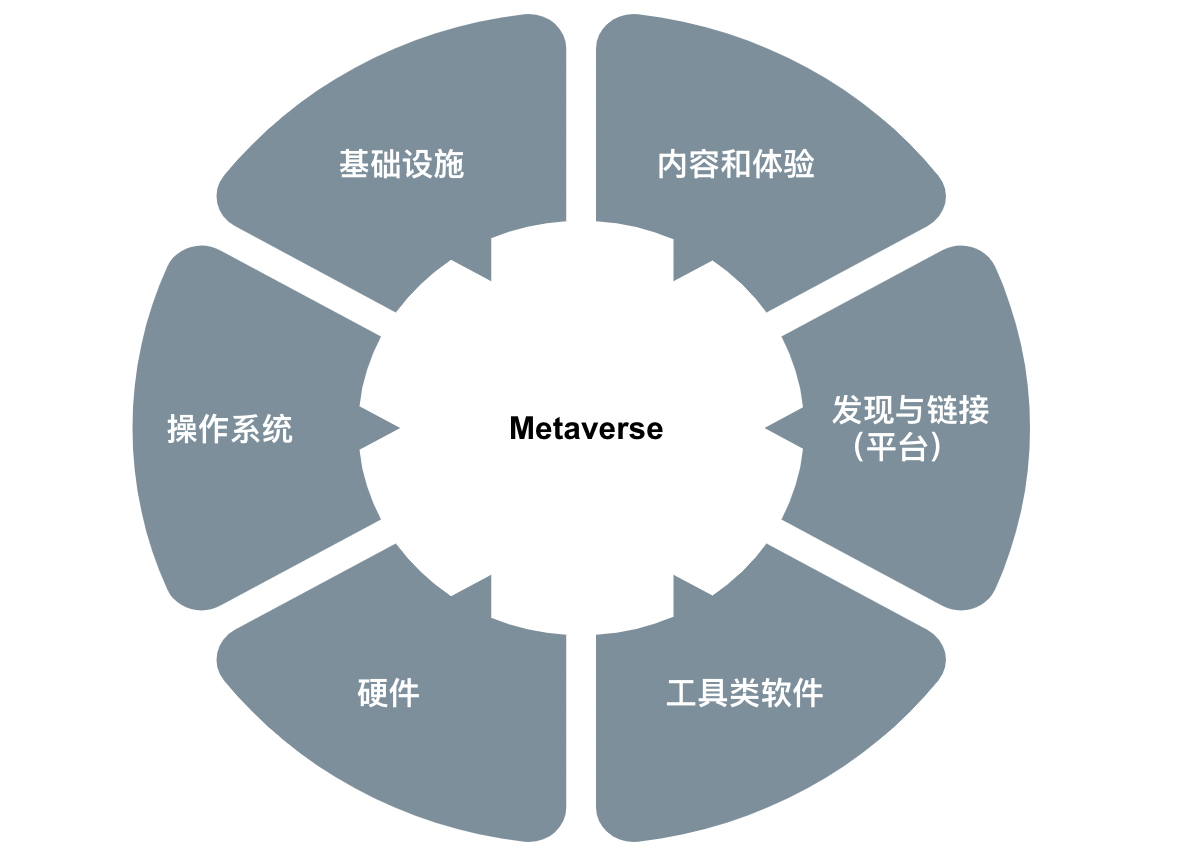
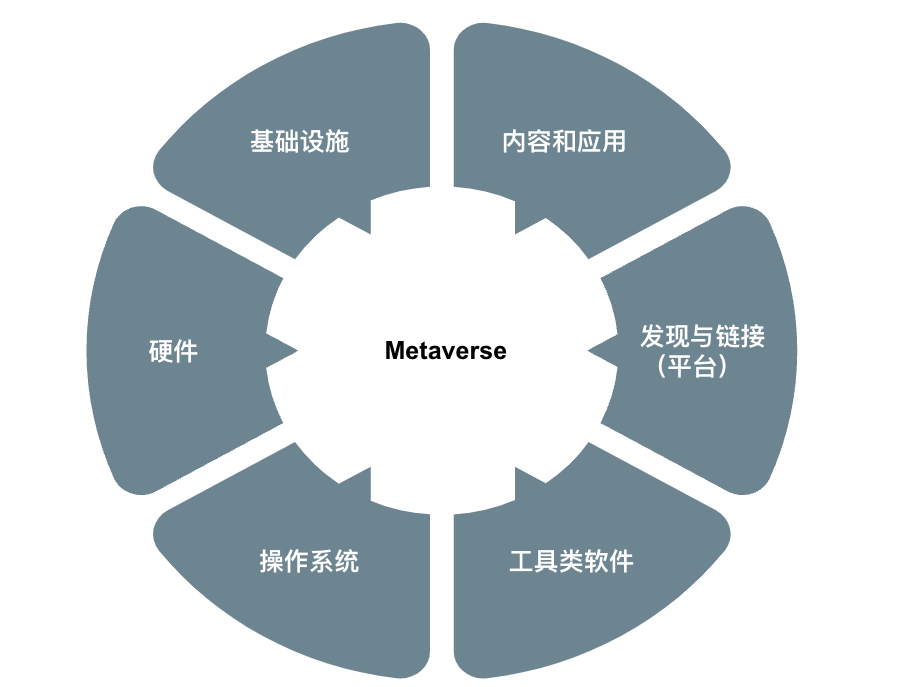
Site updated: 2021-10-09 16:52:52

diff --git a/2021/10/06/YJ09 元宇宙价值链 文章 a9c335570919418eaa0e95a0e58035fb/index.html b/2021/10/06/YJ09 元宇宙价值链 文章 a9c335570919418eaa0e95a0e58035fb/index.html
@@ -217,7 +217,7 @@
                 
                 <div class="post-date info-break-policy">
                     <i class="far fa-calendar-check fa-fw"></i>更新日期:&nbsp;&nbsp;
-                    2021-10-06
+                    2021-10-09
                 </div>
                 
 
@@ -242,8 +242,8 @@
         <div class="card-content article-card-content">
             <div id="articleContent">
                 <p>如果我们回顾互联网和移动互联网的发展，我们会发现他们从根本上改变了我们的生活、工作和娱乐的每个方式。并且这种改变并不是简单地建立在单一技术的突破上，而是建立在一系列的技术和模式创新之上的。创新之多，改变之广，所以无法用“互联网是信息的高速公路”这句话去概括它们。同样，我们并不能在元宇宙还处于萌芽状态时，就给它下一个“看似清晰”的定义。就个人而言，通过理解元宇宙价值链（在元宇宙构建中，创造价值的一系列公司），有助于梳理元宇宙相关的业务，理解不同公司在元宇宙中的位置。<br><img src="/images/YJ-2021-10-06-01.png" alt="元宇宙价值链" style="width:400px;"/></p>
-<p><strong>内容和体验：</strong>在互联网中，数字化内容占据主要位置。在元宇宙中，数字化行为的比例会大幅度提高，从而使得用户可以尝试各种实时的体验。这个观点，我们在《元宇宙特性》文章中有详细阐述。这一层中的公司主要负责制作丰富的数字化内容和体验。目前，这一层公司中的业务更多的停留在游戏层面，这是因为当前的硬件还处于比较早期阶段，如VR设备还并没有大规模普及。但是，未来这些内容和体验不仅仅停留在游戏层面。当硬件设备逐渐成熟和普及后，大量的公司会将现在的各种线下行为数字化，提供丰富的体验，这将包括但不局限于：旅游、教育、体育竞技、演唱会等等。这会使得之前线下稀缺的资源（xxx），变得丰富。这一点十分重要的原因在于，它不仅让我们都容易地享受更丰富的体验，更在于它给我们每个人都创造了更多的机会来选择不同的生活。（目前已经出现了一些线上化行为：Facebook推出Workrooms，为VR办公提供3D会议室场景；Travis Scott在Fortnite上举办虚拟演唱会；UC Berkeley在Minecaft中建立的虚拟校园，举办线上毕业）<br><img src="/images/YJ-2021-10-06-03.png" alt="" style="width:900px;"/></p>
-<p><strong>发现与链接（平台）</strong>：在元宇宙中，内容和体验的数量是前所未有的，并且会以指数级的方式增长。这就意味着，对于每个人而言，都存在一个问题：如何发现那些有价值的，感兴趣的内容和体验。有能力去解决这个问题的公司，往往会成为内容和体验的包装/分发平台。在获取巨大的流量之后，通过拍卖流量的方式而获取巨大的利益。在互联网时代，这类公司提供搜索类服务，如谷歌、百度；在移动互联网时代，这类公司提供推荐类服务，如字节跳动。除了<em>发现</em>，<em>链接</em>也很重要。例如，文本中加入超链接，是一种有效的方式将相关的内容组织起来，从而提高效率。回顾互联网和移动互联网，阿里、京东类型的电商公司，负责商品信息的链接与分发；美团、滴滴这样的公司，负责生活类服务的链接与分发；腾讯这样的社交公司，负责人与人之间的链接；爱优腾、知乎、头条等负责文字、音视频等内容的链接与分发。目前，这些巨头都在各自的领域探索，如何在元宇宙时代继续吸引用户的注意力。在注意力转移的工程中，有些公司会成功地从移动互联网过渡到下一代互联网（元宇宙、全真互联网），有些就此成为历史，依然会存在像字节跳动、拼多多这样的创业公司快速地拔地而起。这其中很重要的原因在于，在元宇宙发展的过程中，并没有一个清晰的答案来说明什么是元宇宙的终极形态。每个公司的理解都是不同的，所以最终的产品也是不同的</p>
+<p><strong>内容和应用：</strong>在互联网中，数字化内容占据主要位置。在元宇宙中，数字化行为的比例会大幅度提高，从而使得用户可以尝试各种实时的体验。这个观点，我们在<a target="_blank" rel="noopener" href="https://seven3seven4.github.io/2021/10/04/YJ08-%E5%85%83%E5%AE%87%E5%AE%99%E7%89%B9%E6%80%A7/">《元宇宙特性》</a>文章中有详细阐述。这一层中的公司主要负责制作丰富的数字化内容和体验。目前，这一层公司中的业务更多的停留在游戏层面，这是因为当前的硬件还处于比较早期阶段，如VR设备还并没有大规模普及。当硬件设备逐渐成熟和普及后，大量的公司会将现在的各种线下行为数字化，提供丰富的体验，这将包括但不局限于：旅游、教育、体育竞技、演唱会等等。这会使得之前线下稀缺的资源（如演唱会的位置、优秀的教师等），变得丰富。这一点十分重要的原因在于，它不仅让我们都容易地享受更丰富的体验，更在于它给我们每个人都创造了更多的机会来选择不同的生活。（目前已经出现了一些线上化行为：Facebook推出Workrooms，为VR办公提供3D会议室场景；Travis Scott在Fortnite上举办虚拟演唱会；UC Berkeley在Minecaft中建立的虚拟校园，举办线上毕业）<br><img src="/images/YJ-2021-10-06-03.png" alt="" style="width:900px;"/></p>
+<p><strong>发现与链接（平台）</strong>：在元宇宙中，内容和体验的数量是前所未有的，并且会以指数级的方式增长。这就意味着，对于每个人而言，都存在一个问题：如何发现那些有价值的，感兴趣的内容和体验。有能力去解决这个问题的公司，往往会成为内容和体验的包装/分发平台。在获取巨大的流量之后，通过拍卖流量的方式而获取巨大的利益。在互联网时代，谷歌、百度这类公司通过搜索帮助用户发现内容；在移动互联网时代，字节跳动这类公司通过推荐帮助用户发现内容，。除了<em>发现</em>，<em>链接</em>也很重要。例如，文本中加入超链接，是一种有效的方式将相关的内容组织起来，从而提高效率。回顾互联网和移动互联网，阿里、京东类型的电商公司，负责商品信息的链接与分发；美团、滴滴这样的公司，负责生活类服务的链接与分发；腾讯这样的社交公司，负责人与人之间的链接；爱优腾、知乎、头条等负责文字、音视频等内容的链接与分发。此外，像苹果、小米这样的硬件公司，通过一流的或高性价比的硬件，获取巨大的用户流量，通过内置的应用商店负责移动应用的分发。目前，这些巨头都在各自的领域探索，如何在元宇宙时代继续吸引用户的注意力。在注意力转移的工程中，有些公司会成功地从移动互联网过渡到下一代互联网（元宇宙、全真互联网），有些就此成为历史，依然会存在像字节跳动、拼多多这样的创业公司快速地拔地而起。这其中很重要的原因在于，在元宇宙发展的过程中，并没有一个清晰的答案来说明什么是元宇宙的终极形态。每个公司的理解都是不同的，所以最终的产品也是不同的</p>
 <p><strong>工具类软件</strong>：任何一个淘金时代，都有人通过卖铲子赚的盆满钵满。无论是在互联网还是元宇宙，都需要一些做专业工具的公司，帮助开发者提高产品的开发效率、降低内容创作者门槛。创造者经济一般会遵循如下的基本发展模式[2]</p>
 <ul>
 <li>开拓者时代：最开始，第一批创造者没有任何工具构建内容，所以构建者需要从零开始构建。例如，最开始的网站是直接用HTML写的，电商网站的购物车功能必须自己实现</li>

diff --git a/2021/10/04/YJ08-元宇宙特性/index.html b/2021/10/04/YJ08-元宇宙特性/index.html
@@ -217,7 +217,7 @@
                 
                 <div class="post-date info-break-policy">
                     <i class="far fa-calendar-check fa-fw"></i>更新日期:&nbsp;&nbsp;
-                    2021-10-08
+                    2021-10-09
                 </div>
                 
 
